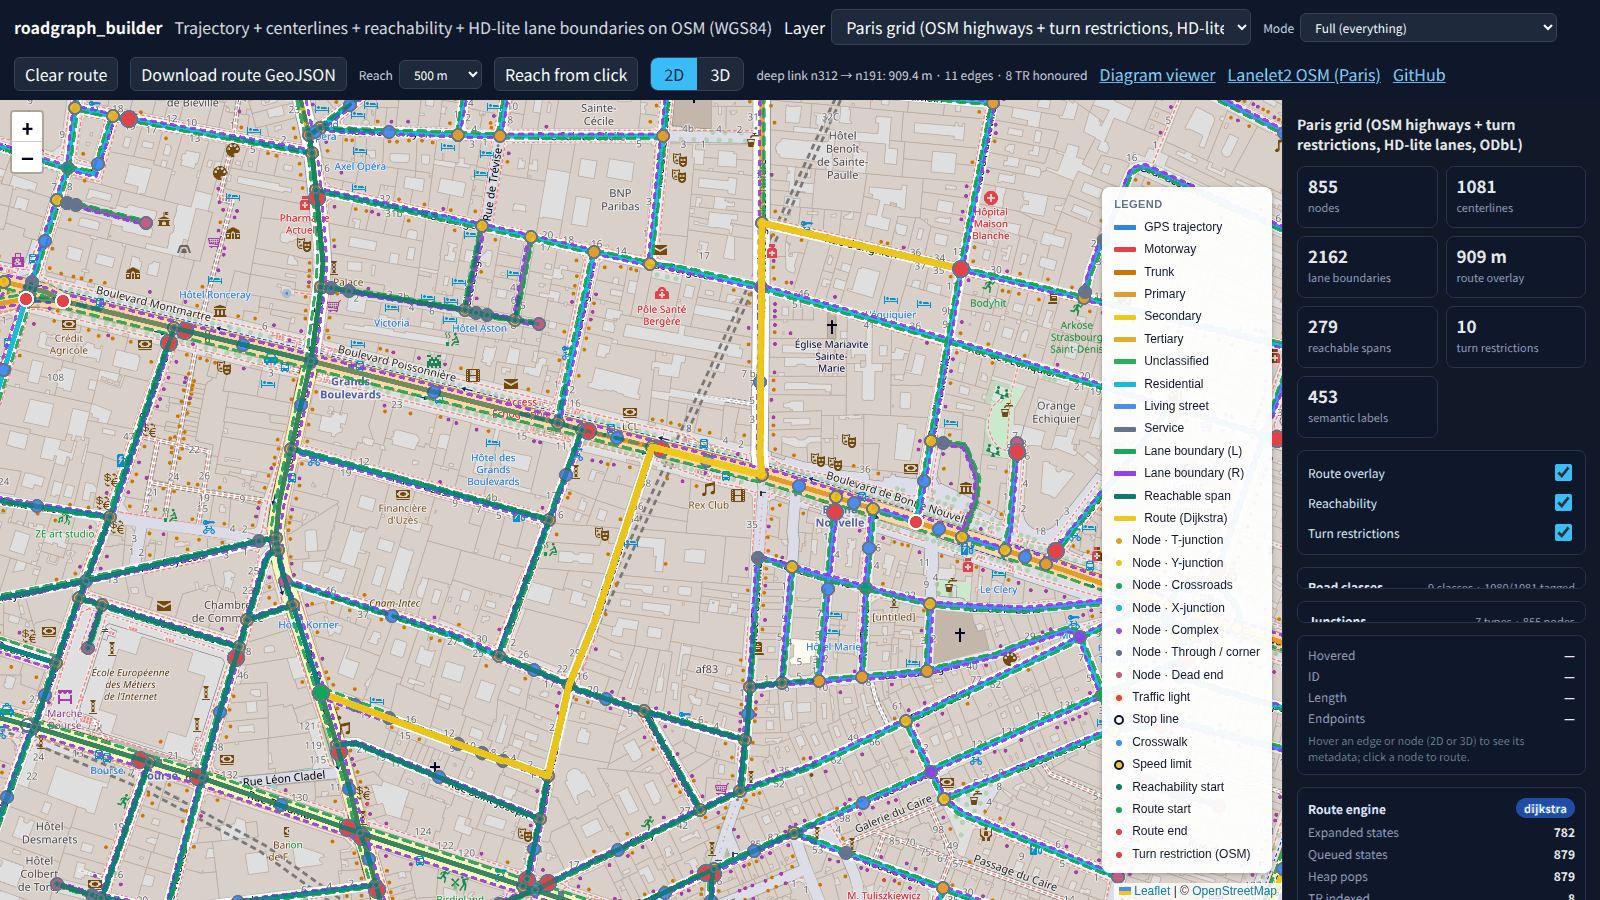
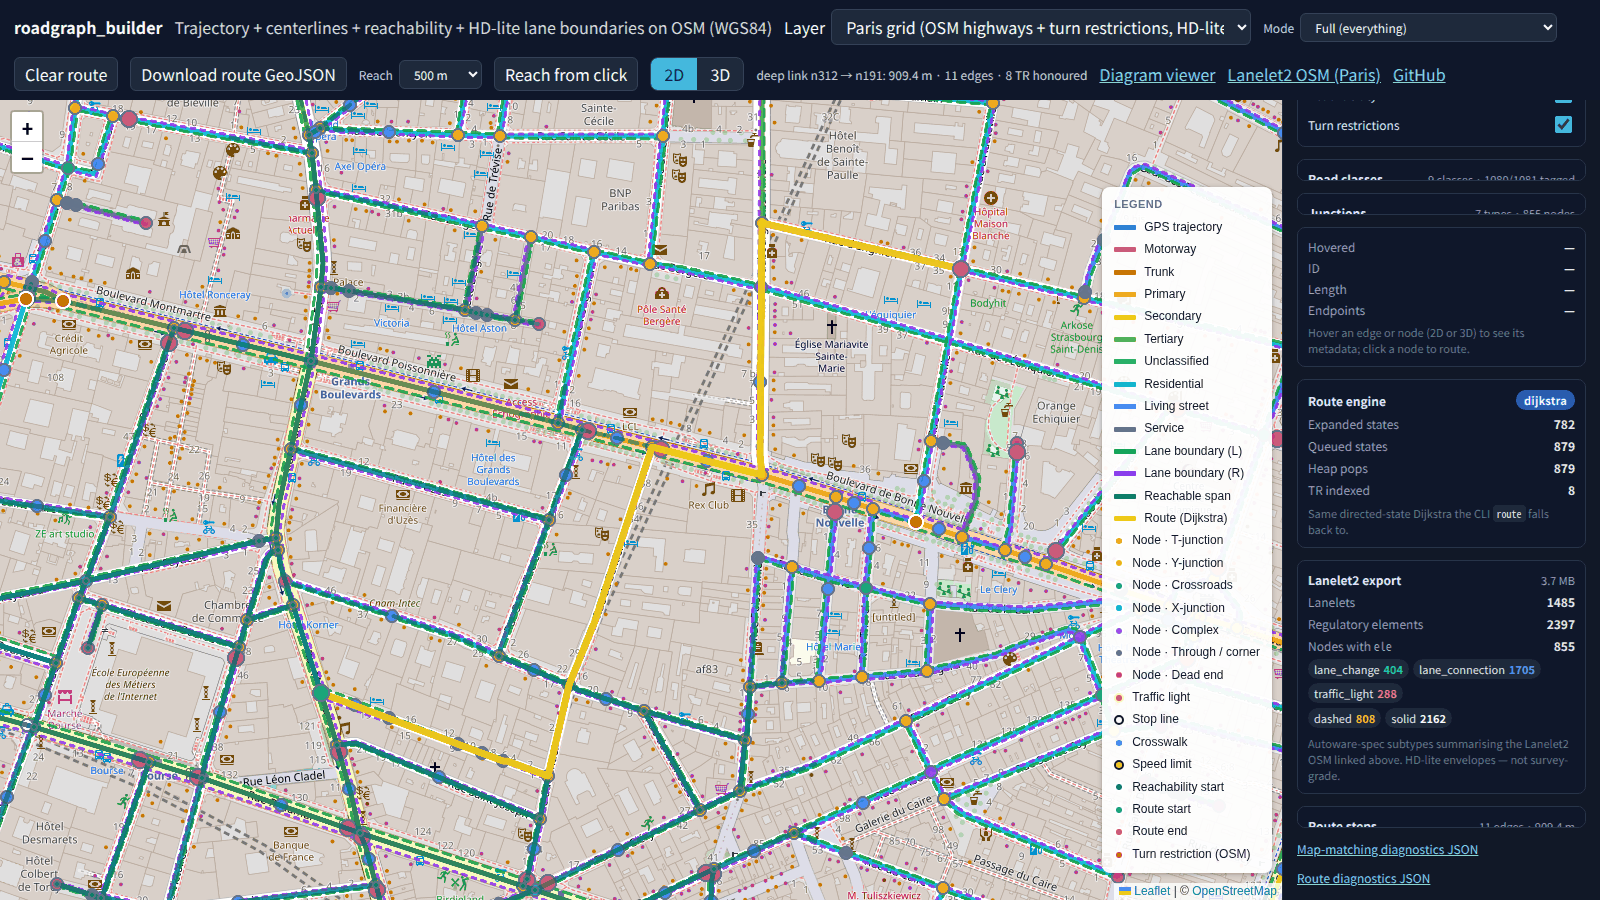
docs(viewer): refresh Lanelet2 hero assets

diff --git a/scripts/render_map_console_screenshot.py b/scripts/render_map_console_screenshot.py
@@ -1,9 +1,11 @@
 #!/usr/bin/env python3
 """Render the README / Showcase map-console hero screenshots.
 
-Serves ``docs/`` on a local HTTP server, then invokes the Playwright CLI
-(``npx -y -p @playwright/test playwright screenshot``) with system Chrome to
-capture 2D and 3D views of ``docs/map.html``.
+Serves ``docs/`` on a local HTTP server, then invokes Playwright through
+``npx -y -p @playwright/test`` with system Chrome to capture 2D and 3D views
+of ``docs/map.html``. By default the inspector is scrolled to the Lanelet2
+export card before capture so the committed screenshots show the HD-lite /
+Autoware-facing summary.
 
 External dependencies pulled at runtime (OSM tiles, Leaflet CDN, Three.js
 CDN) are baked into the PNG and carry the OSM attribution already rendered
@@ -21,6 +23,7 @@ import shutil
 import socketserver
 import subprocess
 import sys
+import tempfile
 import threading
 import time
 from pathlib import Path
@@ -32,6 +35,42 @@ ROOT = Path(__file__).resolve().parent.parent
 DOCS = ROOT / "docs"
 DEFAULT_2D = DOCS / "images" / "map_console_2d.png"
 DEFAULT_3D = DOCS / "images" / "map_console_3d.png"
+
+
+PLAYWRIGHT_SPEC = r"""
+import { test } from "@playwright/test";
+
+const url = process.env.SCREENSHOT_URL;
+const output = process.env.SCREENSHOT_OUTPUT;
+const width = Number(process.env.SCREENSHOT_WIDTH || "1600");
+const height = Number(process.env.SCREENSHOT_HEIGHT || "900");
+const channel = process.env.PLAYWRIGHT_CHANNEL || "chrome";
+const settleMs = Number(process.env.SETTLE_MS || "4500");
+const timeoutMs = Number(process.env.TIMEOUT_MS || "45000");
+const focusSelector = process.env.FOCUS_SELECTOR || "";
+
+if (!url || !output) {
+  throw new Error("SCREENSHOT_URL and SCREENSHOT_OUTPUT are required");
+}
+
+test.use({
+  channel,
+  viewport: { width, height },
+});
+
+test("map console screenshot", async ({ page }) => {
+  await page.goto(url, { waitUntil: "domcontentloaded" });
+  await page.waitForSelector("body[data-ready]", { timeout: timeoutMs });
+  await page.waitForTimeout(settleMs);
+  if (focusSelector) {
+    const focus = page.locator(focusSelector);
+    await focus.waitFor({ state: "visible", timeout: Math.min(timeoutMs, 15000) });
+    await focus.scrollIntoViewIfNeeded();
+    await page.waitForTimeout(350);
+  }
+  await page.screenshot({ path: output, fullPage: false });
+});
+"""
 
 
 class QuietHandler(http.server.SimpleHTTPRequestHandler):
@@ -109,32 +148,56 @@ def _screenshot(
     channel: str,
     settle_ms: int,
     timeout_ms: int,
+    focus_selector: str,
 ) -> None:
     output.parent.mkdir(parents=True, exist_ok=True)
     tmp = output.with_name(output.stem + ".tmp" + output.suffix)
     if tmp.exists():
         tmp.unlink()
-    cmd = [
-        npx,
-        "-y",
-        "-p",
-        "@playwright/test",
-        "playwright",
-        "screenshot",
-        "--channel",
-        channel,
-        "--viewport-size",
-        f"{width},{height}",
-        "--wait-for-selector",
-        "body[data-ready]",
-        "--wait-for-timeout",
-        str(settle_ms),
-        "--timeout",
-        str(timeout_ms),
-        url,
-        str(tmp),
-    ]
-    subprocess.run(cmd, check=True)
+    with tempfile.TemporaryDirectory() as tmpdir:
+        work = Path(tmpdir)
+        spec = work / "map_console_screenshot.spec.mjs"
+        spec.write_text(PLAYWRIGHT_SPEC, encoding="utf-8")
+        shell_cmd = (
+            "set -e\n"
+            'NP="$(dirname "$(dirname "$(command -v playwright)")")"\n'
+            'ln -s "$NP" node_modules\n'
+            "exec playwright test map_console_screenshot.spec.mjs "
+            "--reporter=list --workers=1"
+        )
+        env = os.environ.copy()
+        env["SCREENSHOT_URL"] = url
+        env["SCREENSHOT_OUTPUT"] = str(tmp)
+        env["SCREENSHOT_WIDTH"] = str(width)
+        env["SCREENSHOT_HEIGHT"] = str(height)
+        env["PLAYWRIGHT_CHANNEL"] = channel
+        env["SETTLE_MS"] = str(settle_ms)
+        env["TIMEOUT_MS"] = str(timeout_ms)
+        env["FOCUS_SELECTOR"] = focus_selector
+        env.setdefault("PLAYWRIGHT_SKIP_BROWSER_DOWNLOAD", "1")
+        cmd = [
+            npx,
+            "-y",
+            "-p",
+            "@playwright/test",
+            "sh",
+            "-c",
+            shell_cmd,
+            "map_console_screenshot",
+        ]
+        result = subprocess.run(
+            cmd,
+            capture_output=True,
+            text=True,
+            env=env,
+            cwd=work,
+            timeout=timeout_ms / 1000.0 + 30.0,
+        )
+        if result.returncode != 0:
+            raise RuntimeError(
+                "playwright screenshot failed\n"
+                f"stdout:\n{result.stdout}\nstderr:\n{result.stderr}"
+            )
     _assert_png(tmp)
     _quantize_png(tmp)
     tmp.replace(output)
@@ -177,6 +240,14 @@ def main(argv: list[str] | None = None) -> int:
     )
     parser.add_argument("--timeout-ms", type=int, default=45000)
     parser.add_argument(
+        "--focus-selector",
+        default="#lanelet-card",
+        help=(
+            "Selector to scroll into view before capture. Default #lanelet-card; "
+            "pass an empty string to keep the initial inspector scroll."
+        ),
+    )
+    parser.add_argument(
         "--only",
         choices=["2d", "3d"],
         help="Render only one view; default is both.",
@@ -203,6 +274,7 @@ def main(argv: list[str] | None = None) -> int:
                 channel=args.channel,
                 settle_ms=args.settle_ms,
                 timeout_ms=args.timeout_ms,
+                focus_selector=args.focus_selector,
             )
             print(f"Wrote {_rel(args.output_2d)}")
         if args.only != "2d":
@@ -215,6 +287,7 @@ def main(argv: list[str] | None = None) -> int:
                 channel=args.channel,
                 settle_ms=args.settle_ms,
                 timeout_ms=args.timeout_ms,
+                focus_selector=args.focus_selector,
             )
             print(f"Wrote {_rel(args.output_3d)}")
     return 0

diff --git a/scripts/record_map_console_hero.py b/scripts/record_map_console_hero.py
@@ -114,13 +114,16 @@ test("hero", async ({ browser }) => {
       { waitUntil: "domcontentloaded" },
     );
     await page.waitForSelector("body[data-ready='2d']", { timeout: 45000 });
-    // Short 2D soak so OSM tiles settle and the inspector is readable.
+    await page.locator("#lanelet-card").waitFor({ state: "visible", timeout: 15000 });
+    await page.locator("#lanelet-card").scrollIntoViewIfNeeded();
+    // Short 2D soak so OSM tiles settle and the Lanelet2 inspector is readable.
     await page.waitForTimeout(2500);
 
     // 2) Flip to 3D and let auto-rotate show the scene in motion.
     await page.click("#view-3d");
     await page.waitForTimeout(400);
     await page.waitForSelector("body[data-ready]", { timeout: 15000 });
+    await page.locator("#lanelet-card").scrollIntoViewIfNeeded();
     await page.waitForTimeout(4200);
 
     const video = page.video();

diff --git a/docs/PLAN.md b/docs/PLAN.md
@@ -6,7 +6,7 @@
 > このファイル → [`docs/ARCHITECTURE.md`](./ARCHITECTURE.md)（Mermaid 6 枚 + CLI 対応表 +
 > モジュール索引）→ [`CHANGELOG.md`](../CHANGELOG.md) の順。
 
-*最終更新: 2026-04-26 session（**Claude → Codex handoff**: directional `lane_connection` predecessor/successor pairs / `_emit_lanelet_summary` unit + staleness tests + browser smoke lanelet-card assert / Autoware-style `<MetaInfo>` projector-origin embedded in every Lanelet2 OSM）。下流 session への引き継ぎ目的で書き起こし強化。前回 2026-04-24 までに反映済みの V1 実測 / camera warning fix / perf flake fix / docs sync / completions sync / Paris accuracy refresh / Berlin tuning sweep / README+docs visual preview + measured-results cards polish + README measured-results compacting / float32 opt-in + drift report + compare script + 1M synthetic memory profile + OSM public-trace replay profile / release bundle byte + normalized-manifest gate + manifest policy docs polish / private repo Pages blocked note / CLI boundary split wave 完了 / README release surface 整理 / v0.7.1 release + asset verification / packaging metadata smoke / 0.7.2.dev0 reopen / Actions Node24 update / release+PyPI dry-run / routing hot-path perf / nearest spatial index / cache invalidation hardening / build graph spatial merge perf / T-junction segment index perf / lean near-parallel merge loop / GeoJSON export compact path / compact bundle JSON writer / README quick-start smoke / release readiness dry-run refresh / reachable service-area CLI / reachable docs overlay / reachable benchmark coverage / benchmark baseline JSON / reachability analyzer perf / routing core split / RoutePlanner perf / GitHub star-growth surfaces / launch kit docs / safe A* routing / route explain diagnostics / route explain docs surface / route explain comparison UI / route diagnostics README screenshot / functional shortest_path planner cache + sampled validation / nearest-edge projection index / match-trajectory explain diagnostics / HMM bridge ambiguity benchmark / HMM adjacency reuse perf / HMM tail-cost cache / HMM long trajectory benchmark / edge-index cell tuning / 2D/3D map console / PLAN handoff expansion / map console pushed + CI green / Claude handoff refresh / map console hero screenshots / map console browser smoke opt-in pytest / map console JS split + 3D raycaster picking / map console deep link + route steps inspector / map console route export + deep-link 自動 fit + hero screenshot refresh / Paris grid + Berlin Mitte HD-lite lanes & committed viewer dataset / junction topology color coding / OSM road-class color coding + class breakdown / animated map console hero GIF / JS route engine diagnostics in inspector / Paris grid synthetic camera semantic overlay / live reachability on click / 2D hover card sync / SD-HD layer tier toggle / README + SHOWCASE map-first reorg / Pages index map-first redirect / Paris grid Lanelet2 OSM + AV scope disclaimer / Autoware-spec lanelet tags / OSM lanes tag → multi-lane Lanelet2 / OSM regulatory nodes replace synthetic / Berlin Lanelet2 + dataset-aware download link / regulatory_element emission from semantic_rules / OSM width tag → HD envelope + lanelet width attr / SRTM elevation + slope_deg + lanelet ele tag / OSM stop point → perpendicular stop_line way / per-lane lanelet lane_connection emission / boundary subtype outer-solid interior-dashed / Berlin TR / route / reachable overlay parity / Tokyo Ginza committed dataset + helper refactor / Lanelet2 summary JSON + map console inspector card）を反映済み。*
+*最終更新: 2026-04-29 session（**Codex continuation**: San Francisco North Beach committed dataset / `sanitize-lanelet2-autoware` Autoware loader-smoke profile / Lanelet2 inspector card入り map-console hero PNG + GIF refresh）。下流 session への引き継ぎ目的で書き起こし強化。前回 2026-04-24 までに反映済みの V1 実測 / camera warning fix / perf flake fix / docs sync / completions sync / Paris accuracy refresh / Berlin tuning sweep / README+docs visual preview + measured-results cards polish / README measured-results compacting / float32 opt-in + drift report + compare script + 1M synthetic memory profile + OSM public-trace replay profile / release bundle byte + normalized-manifest gate + manifest policy docs polish / private repo Pages blocked note / CLI boundary split wave 完了 / README release surface 整理 / v0.7.1 release + asset verification / packaging metadata smoke / 0.7.2.dev0 reopen / Actions Node24 update / release+PyPI dry-run / routing hot-path perf / nearest spatial index / cache invalidation hardening / build graph spatial merge perf / T-junction segment index perf / lean near-parallel merge loop / GeoJSON export compact path / compact bundle JSON writer / README quick-start smoke / release readiness dry-run refresh / reachable service-area CLI / reachable docs overlay / reachable benchmark coverage / benchmark baseline JSON / reachability analyzer perf / routing core split / RoutePlanner perf / GitHub star-growth surfaces / launch kit docs / safe A* routing / route explain diagnostics / route explain docs surface / route explain comparison UI / route diagnostics README screenshot / functional shortest_path planner cache + sampled validation / nearest-edge projection index / match-trajectory explain diagnostics / HMM bridge ambiguity benchmark / HMM adjacency reuse perf / HMM tail-cost cache / HMM long trajectory benchmark / edge-index cell tuning / 2D/3D map console / PLAN handoff expansion / map console pushed + CI green / Claude handoff refresh / map console hero screenshots / map console browser smoke opt-in pytest / map console JS split + 3D raycaster picking / map console deep link + route steps inspector / map console route export + deep-link 自動 fit + hero screenshot refresh / Paris grid + Berlin Mitte HD-lite lanes & committed viewer dataset / junction topology color coding / OSM road-class color coding + class breakdown / animated map console hero GIF / JS route engine diagnostics in inspector / Paris grid synthetic camera semantic overlay / live reachability on click / 2D hover card sync / SD-HD layer tier toggle / README + SHOWCASE map-first reorg / Pages index map-first redirect / Paris grid Lanelet2 OSM + AV scope disclaimer / Autoware-spec lanelet tags / OSM lanes tag → multi-lane Lanelet2 / OSM regulatory nodes replace synthetic / Berlin Lanelet2 + dataset-aware download link / regulatory_element emission from semantic_rules / OSM width tag → HD envelope + lanelet width attr / SRTM elevation + slope_deg + lanelet ele tag / OSM stop point → perpendicular stop_line way / per-lane lanelet lane_connection emission / boundary subtype outer-solid interior-dashed / Berlin TR / route / reachable overlay parity / Tokyo Ginza committed dataset + helper refactor / Lanelet2 summary JSON + map console inspector card）を反映済み。*
 
 ---
 
@@ -24,17 +24,15 @@
   （opt-in `browser_smoke` / `slow` markers 除外、city-scale 除外。前回より +2 tests = 新規
   `test_lanelet_summary.py` の 3 テストと、`test_lanelet2_connectivity.py` に MetaInfo /
   reverse-oneway / forward-oneway を追加した分。連番が変わったのは pytest 集計上の理由）。
-- **current local git:** 2026-04-29 Codex session 時点で `main` は `origin/main` より
-  **5 commits 進行中（unpushed）**、作業ツリー clean。直近 2 commits は
-  San Francisco dataset 追加と `sanitize-lanelet2-autoware` 追加。
-  直近 push 済みの先頭は `5ae3a6c feat: emit Lanelet2 summary JSON and surface
-  it in the map console`。push はまだしていない。
+- **current local git:** 2026-04-29 Codex session 時点で `main` は `origin/main` と同期済み。
+  直近の pushed work は San Francisco dataset 追加、`sanitize-lanelet2-autoware`
+  追加、Lanelet2 inspector card入り map-console hero PNG / GIF refresh。
 - **Claude → Codex handoff (2026-04-26):** Claude session で着手して shipped したのは Lanelet2
   Autoware-friendliness の 3 ポイント（directional `lane_connection` / `_emit_lanelet_summary`
   staleness gate + browser smoke lanelet-card assert / `<MetaInfo>` projector hint）。user は途中で
   「PLAN.md をながながと更新して codex に引き継ぐ」と指示し、未着手候補だった
   新都市追加は 2026-04-28 Codex session で San Francisco North Beach として実装済み。
-  画像再撮（Lanelet2 inspector card 入り hero refresh）は未実行（§5b 参照）。
+  画像再撮（Lanelet2 inspector card入り hero refresh）は 2026-04-29 Codex session で実行済み。
 - **latest local checks (2026-04-26 session):** `git diff --check` clean。
   `python3 -m pytest --ignore=tests/test_map_console_browser_smoke.py --ignore=tests/test_city_scale.py`
   で **639 passed / 28 skipped / 1 deselected** in ~65s。
@@ -66,8 +64,9 @@
   `python3 -m pytest` は **646 passed / 28 skipped / 5 deselected**。
   `python3 -m pytest tests/test_lanelet2_autoware_compat.py tests/test_cli_export.py`
   は **17 passed**。
-- **Codex restart point:** Lanelet2 / Autoware 周辺を続けるなら §5b の画像再撮（Lanelet2 inspector
-  card 入り hero refresh）か §3.11 可視化の残タスク。
+- **Codex restart point:** Lanelet2 / Autoware 周辺を続けるなら §5b C の文言整合性チェックか
+  §3.11 可視化の残タスク。Autoware loader-smoke profile は `sanitize-lanelet2-autoware`
+  で実装済み。
   ほかの core algorithm/perf を触るなら §3.8〜§3.10 と benchmark baseline JSON を先に見る。
 - **直近の sessions (2026-04-21〜2026-04-28) で landed / in-progress:**
   - **2026-04-28 Codex session:** §5b A を実行し、San Francisco North Beach /
@@ -1211,25 +1210,22 @@ A. **DONE 2026-04-28 Codex: 4 都市目の committed dataset を追加** — use
      * Lanelet2 出力は今 session の MetaInfo + directional lane_connection が新規 dataset にも
        自動で乗る（`export_lanelet2_per_lane` が両機能を持つので code は触らない）。
 
-B. **README + SHOWCASE の hero / 説明を Lanelet2 inspector カード入りに refresh** — 今 session で
+B. **DONE 2026-04-29 Codex: README + SHOWCASE の hero / 説明を Lanelet2 inspector カード入りに refresh** — 今 session で
    `<MetaInfo>` と directional `lane_connection` を入れたので、map console の
    "Lanelet2 export" カードに表示されている数値（reg 総数、lane_connection / lane_change /
    traffic_light の chip）と実 OSM が同期した。README "Visualization results" の 2D
    screenshot と `docs/SHOWCASE.md` の "Map console" 節は **Lanelet2 export カードが映る
    crop** にしておくと user 価値（"Autoware に流せる" を見える化）が伝わる。
+   - 2026-04-29 Codex: `scripts/render_map_console_screenshot.py` を Playwright test 経由に
+     切り替え、default で `#lanelet-card` を scrollIntoView してから 2D / 3D PNG を撮る
+     ように変更。`scripts/record_map_console_hero.py` も録画中に Lanelet2 card へスクロール。
+     `docs/images/map_console_2d.png`, `map_console_3d.png`, `map_console_hero.gif`
+     を再生成済み。
    - 2026-04-28 Codex partial: README / SHOWCASE / docs/index / CHANGELOG /
      ATTRIBUTION の文言と Lanelet2 数値は SF + directed pair 前提に更新済み。
-     画像再撮 (`docs/images/map_console_2d.png` / `map_console_3d.png` /
-     `map_console_hero.gif`) はまだ未実行。
-   - 再撮: `scripts/render_map_console_screenshot.py` をそのまま使う（`?dataset=paris_grid&view=2d&from=n312&to=n191` で route 焼き込み済み hero PNG が出る）。Lanelet2 カードは
-     scroll せず最初の viewport に入るので crop 調整は不要のはず。差分を git で確認して
-     差分が小さければそのまま commit、大きければ `--width / --height` で fit-to-frame。
-   - README の `8. Export` 行の `lane_connection` 記述を **directed pair** に更新する箇所が
-     1 つ残っている: README.md:231 周辺の表 + CHANGELOG line 931（旧 release entry）には
-     `from_start / from_end` の歴史記述を残しつつ、新 default が directed pair であることを
-     1 行追記しておく。
-   - SHOWCASE.md / `docs/index.html` measured-results の Lanelet2 数値（`707 lane_connection`
-     などをハードコードしているなら）を新しい数字に揃える。grep して引っかかれば差し替える。
+   - README の `8. Export` 行、SHOWCASE / docs/index measured-result 文言、CHANGELOG
+     `[Unreleased]` は directed pair / current Lanelet2 counts 前提に整合済み。旧 release entry
+     の `from_start / from_end` は歴史記述として残している。
 
 C. **CHANGELOG / docs / Codex 内の文言整合性チェック** — Claude session でアップデートした
    - `CHANGELOG.md` `[Unreleased]` の **Added (MetaInfo)** + **Changed (directional
